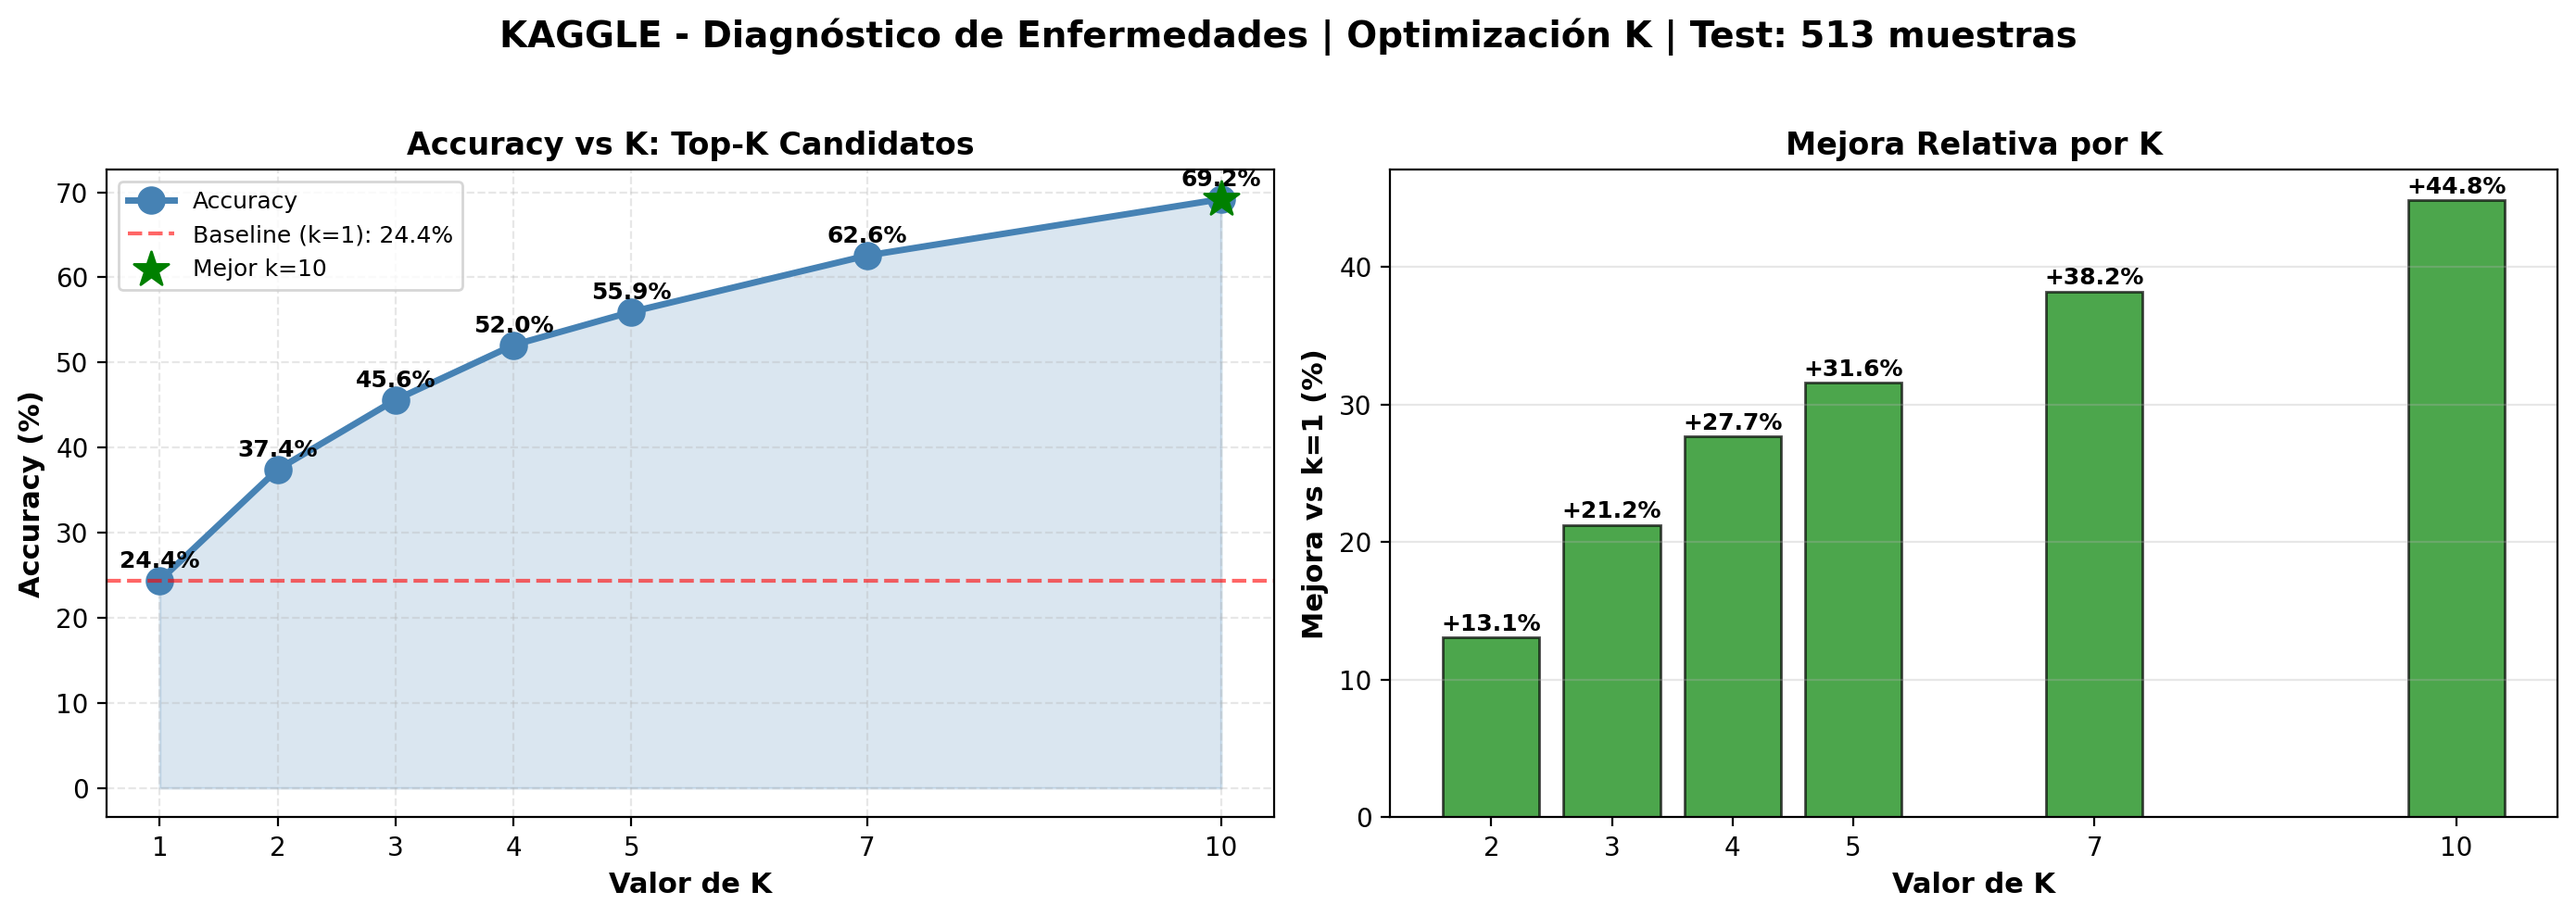
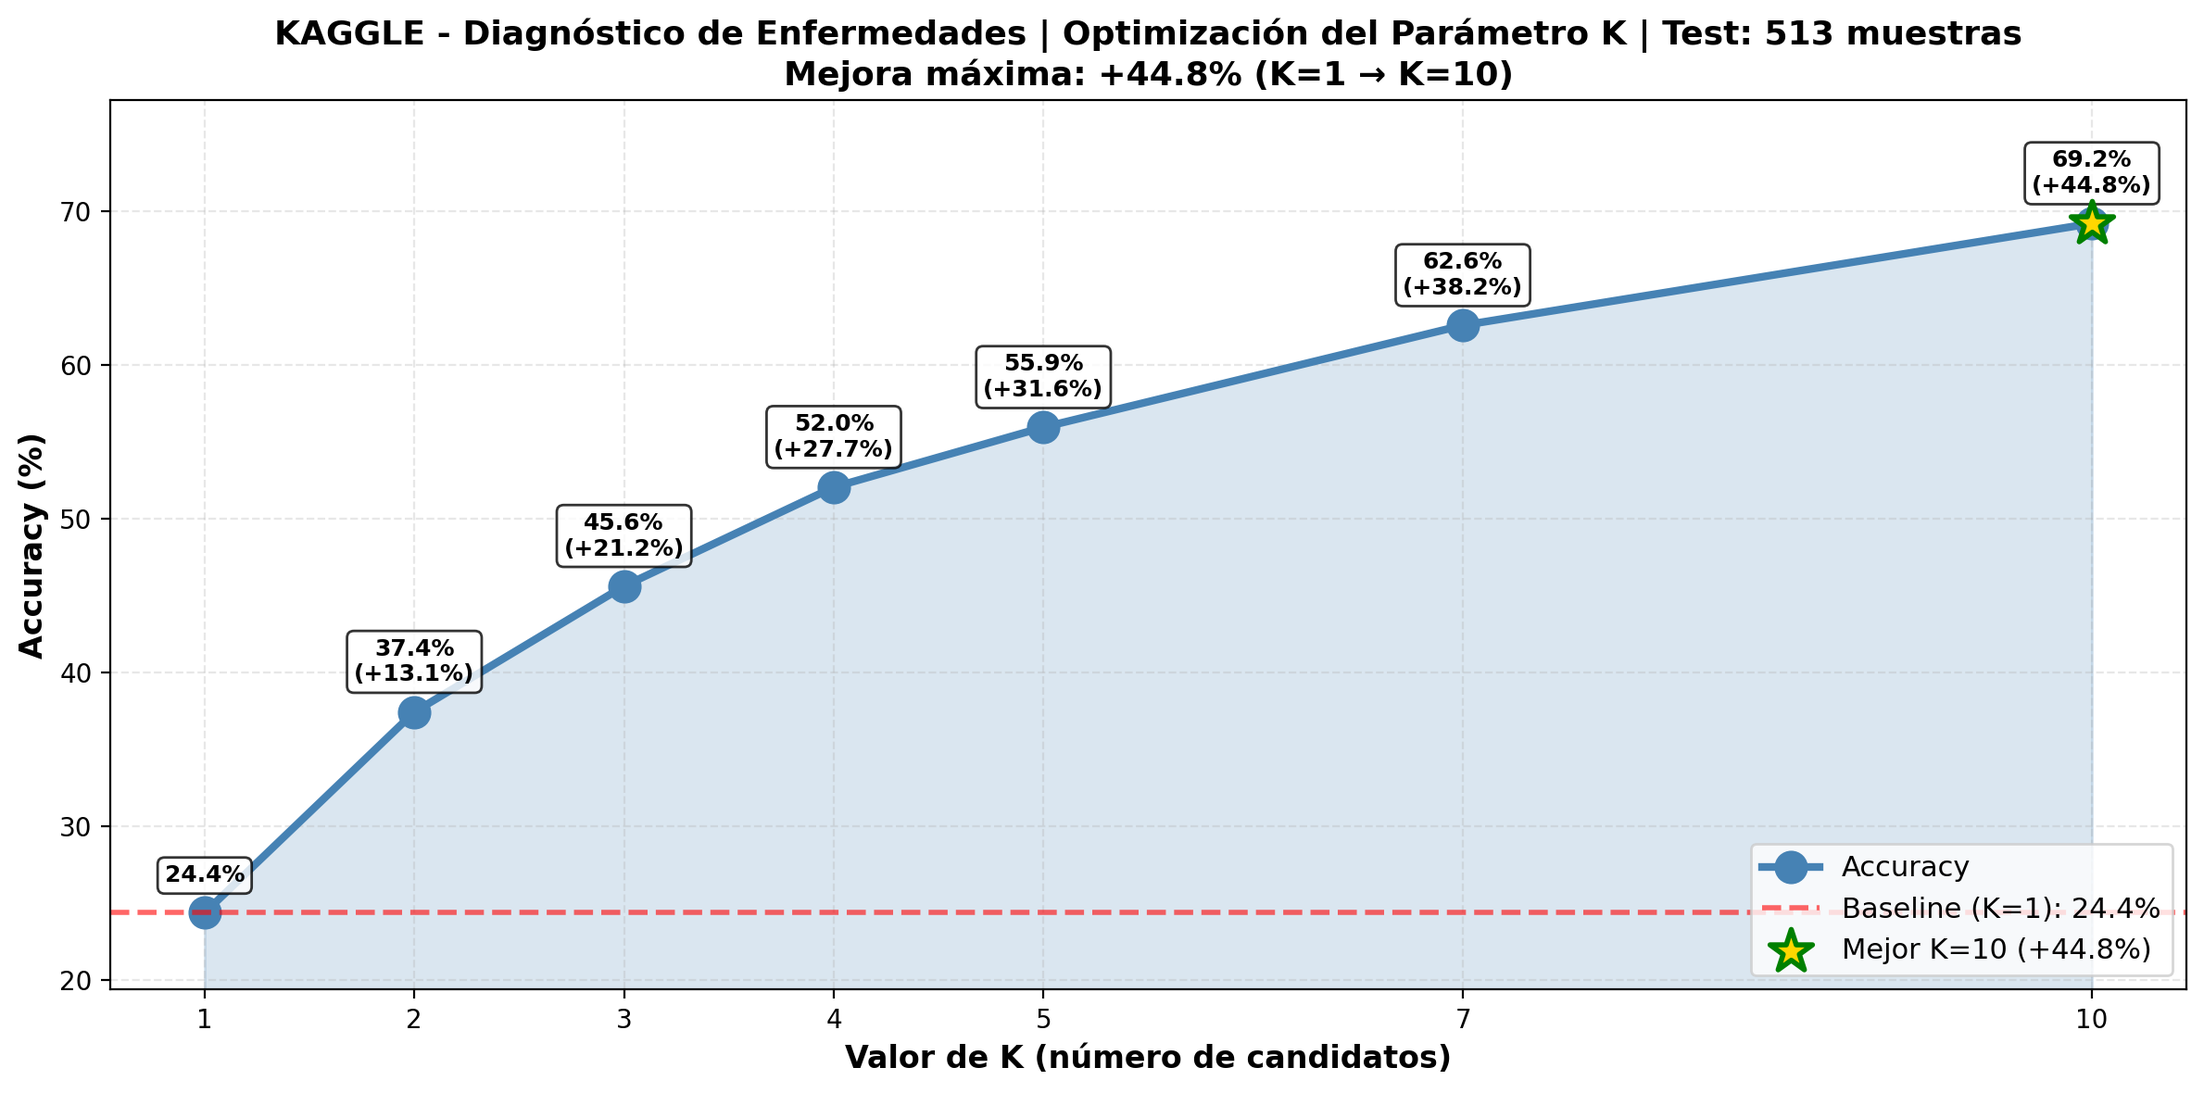
[ACTUALIZACION] GRAFICOS E INFORMES

diff --git a/evaluaciones/02_optimizar_k.py b/evaluaciones/02_optimizar_k.py
@@ -79,54 +79,48 @@ df_resultados = pd.DataFrame(resultados)
 # Identificamos el mejor K y el baseline (K=1)
 mejor_k = df_resultados.loc[df_resultados['accuracy'].idxmax()]
 accuracy_k1 = df_resultados[df_resultados['k'] == 1]['accuracy'].values[0]
+mejora_total = mejor_k['accuracy'] - accuracy_k1
 
-fig, (ax1, ax2) = plt.subplots(1, 2, figsize=(14, 5))
+# Crear figura con un solo gráfico más grande
+fig, ax = plt.subplots(figsize=(12, 6))
 
-ax1.plot(df_resultados['k'], df_resultados['accuracy'], 
-         marker='o', linewidth=2.5, markersize=10, color='steelblue', label='Accuracy')
-ax1.fill_between(df_resultados['k'], df_resultados['accuracy'], 
-                  alpha=0.2, color='steelblue')
+ax.plot(df_resultados['k'], df_resultados['accuracy'], 
+        marker='o', linewidth=3, markersize=12, color='steelblue', label='Accuracy')
+ax.fill_between(df_resultados['k'], df_resultados['accuracy'], 
+                 alpha=0.2, color='steelblue')
 
+# Anotaciones con accuracy y mejora
 for _, row in df_resultados.iterrows():
-    ax1.text(row['k'], row['accuracy'] + 1.5, f"{row['accuracy']:.1f}%", 
-             ha='center', fontsize=9, fontweight='bold')
+    if row['k'] == 1:
+        # K=1: solo mostrar accuracy
+        texto = f"{row['accuracy']:.1f}%"
+    else:
+        # K>1: mostrar accuracy y mejora
+        mejora = row['accuracy'] - accuracy_k1
+        texto = f"{row['accuracy']:.1f}%\n(+{mejora:.1f}%)"
+    
+    ax.text(row['k'], row['accuracy'] + 2, texto, 
+            ha='center', fontsize=9, fontweight='bold',
+            bbox=dict(boxstyle='round,pad=0.3', facecolor='white', alpha=0.8))
 
-ax1.axhline(y=accuracy_k1, color='red', linestyle='--', linewidth=1.5, 
-            alpha=0.6, label=f'Baseline (k=1): {accuracy_k1:.1f}%')
+ax.axhline(y=accuracy_k1, color='red', linestyle='--', linewidth=2, 
+           alpha=0.6, label=f'Baseline (K=1): {accuracy_k1:.1f}%')
 
-ax1.scatter([mejor_k['k']], [mejor_k['accuracy']], 
-            color='green', s=200, zorder=5, marker='*', 
-            label=f'Mejor k={int(mejor_k["k"])}')
+ax.scatter([mejor_k['k']], [mejor_k['accuracy']], 
+           color='gold', s=300, zorder=5, marker='*', edgecolors='green', linewidths=2,
+           label=f'Mejor K={int(mejor_k["k"])} (+{mejora_total:.1f}%)')
 
-ax1.set_xlabel('Valor de K', fontsize=11, fontweight='bold')
-ax1.set_ylabel('Accuracy (%)', fontsize=11, fontweight='bold')
-ax1.set_title('Accuracy vs K: Top-K Candidatos', fontweight='bold', fontsize=12)
-ax1.grid(True, alpha=0.3, linestyle='--')
-ax1.legend(fontsize=9)
-ax1.set_xticks(k_values)
+ax.set_xlabel('Valor de K (número de candidatos)', fontsize=12, fontweight='bold')
+ax.set_ylabel('Accuracy (%)', fontsize=12, fontweight='bold')
+ax.set_title(f'{dataset_nombre} | Optimización del Parámetro K | Test: {len(X_test)} muestras\n' +
+             f'Mejora máxima: +{mejora_total:.1f}% (K=1 → K={int(mejor_k["k"])})',
+             fontweight='bold', fontsize=13)
+ax.grid(True, alpha=0.3, linestyle='--')
+ax.legend(fontsize=11, loc='lower right')
+ax.set_xticks(k_values)
+ax.set_ylim(min(df_resultados['accuracy']) - 5, max(df_resultados['accuracy']) + 8)
 
-mejoras = []
-for k in k_values[1:]:
-    acc_k = df_resultados[df_resultados['k'] == k]['accuracy'].values[0]
-    mejora = acc_k - accuracy_k1
-    mejoras.append(mejora)
-
-ax2.bar(k_values[1:], mejoras, color='green', alpha=0.7, edgecolor='black')
-ax2.axhline(y=0, color='red', linestyle='-', linewidth=1)
-
-for k, mejora in zip(k_values[1:], mejoras):
-    ax2.text(k, mejora + 0.5, f'+{mejora:.1f}%', 
-             ha='center', fontsize=9, fontweight='bold')
-
-ax2.set_xlabel('Valor de K', fontsize=11, fontweight='bold')
-ax2.set_ylabel('Mejora vs k=1 (%)', fontsize=11, fontweight='bold')
-ax2.set_title('Mejora Relativa por K', fontweight='bold', fontsize=12)
-ax2.grid(True, alpha=0.3, axis='y')
-ax2.set_xticks(k_values[1:])
-
-plt.suptitle(f'{dataset_nombre} | Optimización K | Test: {len(X_test)} muestras', 
-             fontsize=14, fontweight='bold')
-plt.tight_layout(rect=[0, 0, 1, 0.96])
+plt.tight_layout()
 plt.savefig(f'../resultados/{dataset_id}/graficos/07_optimizacion_k.png', dpi=200, bbox_inches='tight')
 plt.close()
 

diff --git a/evaluaciones/01_matriz_de_confusion.py b/evaluaciones/01_matriz_de_confusion.py
@@ -187,35 +187,38 @@ plt.tight_layout()
 plt.savefig(f'../resultados/{dataset_id}/graficos/05_matriz_confusion_top20.png', dpi=200, bbox_inches='tight')
 plt.close()
 
-fig, (ax1, ax2) = plt.subplots(1, 2, figsize=(16, 6))
+fig, ax = plt.subplots(figsize=(12, 7))
 
-top20 = df_metricas.head(20)
-ax1.barh(range(len(top20)), top20['accuracy'], color='green', alpha=0.7, edgecolor='black')
-ax1.set_yticks(range(len(top20)))
-ax1.set_yticklabels([enf[:35] for enf in top20['enfermedad']], fontsize=8)
-ax1.set_xlabel('Accuracy (%)', fontsize=10)
-ax1.set_title('Top 20: Enfermedades con Mejor Accuracy', fontweight='bold', fontsize=11)
-ax1.invert_yaxis()
-ax1.grid(True, alpha=0.3, axis='x')
-ax1.axvline(x=accuracy*100, color='red', linestyle='--', linewidth=2, alpha=0.7, 
-            label=f'Promedio: {accuracy*100:.1f}%')
-ax1.legend()
+# Histograma simple, todo en steelblue
+ax.hist(df_metricas['accuracy'], bins=25, edgecolor='black', alpha=0.7, color='steelblue')
 
-ax2.hist(df_metricas['accuracy'], bins=20, edgecolor='black', alpha=0.7, color='steelblue')
-ax2.axvline(x=accuracy*100, color='red', linestyle='--', linewidth=2, 
-            label=f'Promedio: {accuracy*100:.1f}%')
-ax2.set_xlabel('Accuracy (%)', fontsize=10)
-ax2.set_ylabel('Número de enfermedades', fontsize=10)
-ax2.set_title('Distribución de Accuracy', fontweight='bold', fontsize=11)
-ax2.legend()
-ax2.grid(True, alpha=0.3, axis='y')
+# Solo la línea verde del promedio excluyendo 0%
+ax.axvline(x=accuracy_sin_ceros, color='green', linestyle='--', linewidth=2.5,
+           label=f'Promedio excluyendo 0%: {accuracy_sin_ceros:.1f}%')
 
+# Texto "42.5%" junto a la línea verde
+ax.text(accuracy_sin_ceros + 2, ax.get_ylim()[1] * 0.95, f'{accuracy_sin_ceros:.1f}%',
+        fontsize=14, fontweight='bold', color='green',
+        bbox=dict(boxstyle='round,pad=0.4', facecolor='white', edgecolor='green', linewidth=2))
+
+ax.set_xlabel('Accuracy (%)', fontsize=12, fontweight='bold')
+ax.set_ylabel('Número de enfermedades', fontsize=12, fontweight='bold')
+ax.set_title(f'{dataset_nombre} | Distribución de Accuracy por Enfermedad\n' +
+             f'Test: {len(X_test)} muestras | {n_enfermedades} enfermedades',
+             fontweight='bold', fontsize=13)
+ax.legend(fontsize=11, loc='upper right')
+ax.grid(True, alpha=0.3, axis='y')
+
+# Anotación para enfermedades con 0%
 if n_enf_cero > 0:
-    ax2.text(5, ax2.get_ylim()[1]*0.85, f'{n_enf_cero} enfermedades\ncon 0% accuracy',
-             bbox=dict(boxstyle='round', facecolor='lightcoral', alpha=0.7),
-             fontsize=10, fontweight='bold')
+    ax.text(2, ax.get_ylim()[1] * 0.75,
+            f'{n_enf_cero} enfermedades (0% accuracy)\n'
+            f'{int(muestras_cero)} muestras afectadas\n'
+            f'({muestras_cero/len(Y_test)*100:.1f}% del test)',
+            bbox=dict(boxstyle='round,pad=0.8', facecolor='lightcoral', alpha=0.8, 
+                     edgecolor='darkred', linewidth=2),
+            fontsize=11, fontweight='bold')
 
-plt.suptitle(f'{dataset_nombre} | Análisis de Accuracy', fontsize=14, fontweight='bold')
-plt.tight_layout(rect=[0, 0, 1, 0.96])
-plt.savefig(f'../resultados/{dataset_id}/graficos/06_accuracy_por_enfermedad.png', dpi=200, bbox_inches='tight')
+plt.tight_layout()
+plt.savefig(f'../resultados/{dataset_id}/graficos/06_distribucion_accuracy.png', dpi=200, bbox_inches='tight')
 plt.close()

diff --git a/evaluaciones/config.py b/evaluaciones/config.py
@@ -10,7 +10,7 @@ Permite cambiar entre datasets modificando una sola variable
 
 
 # Cambiar esta variable para alternar entre datasets
-DATASET_ACTIVO = "kaggle_enfermedades"  # Opciones: "kaggle_enfermedades" | "mendeley_enfermedades"
+DATASET_ACTIVO = "mendeley_enfermedades"  # Opciones: "kaggle_enfermedades" | "mendeley_enfermedades"
 
 DATASETS = {
     "kaggle_enfermedades": {

diff --git a/evaluaciones/06_pruebas_raw.py b/evaluaciones/06_pruebas_raw.py
@@ -6,9 +6,7 @@ df = pd.read_csv('../datasets/kaggle_enfermedades/bronze/kaggle_dataset.csv')
 # Contar casos por enfermedad
 distribucion = df['prognosis'].value_counts().sort_values()
 
-print("="*70)
 print("DISTRIBUCIÓN DE CASOS - DATASET ORIGINAL KAGGLE (BRONZE)")
-print("="*70)
 
 print(f"\nTotal de enfermedades: {len(distribucion)}")
 print(f"Total de muestras: {len(df)}")
